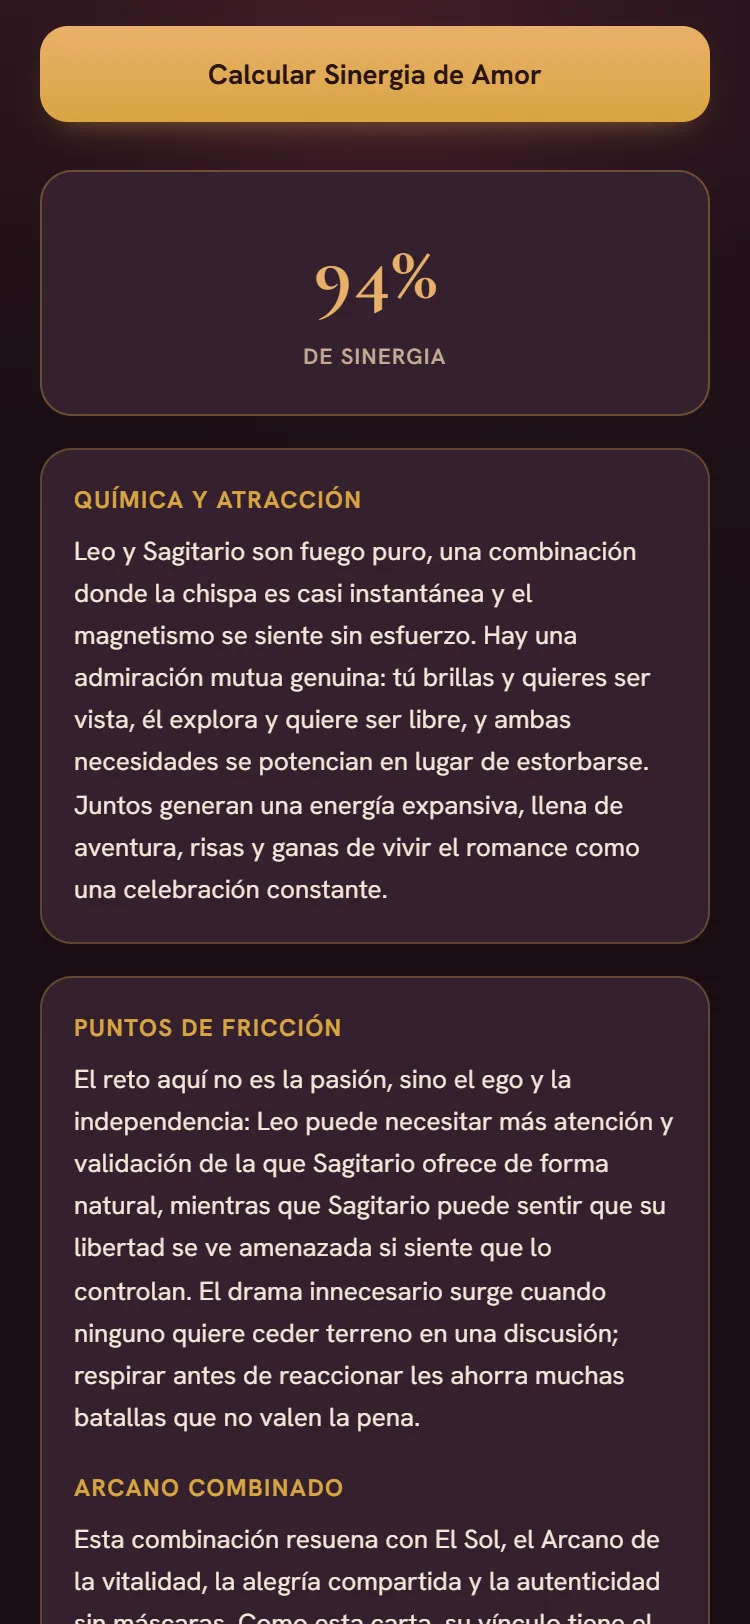
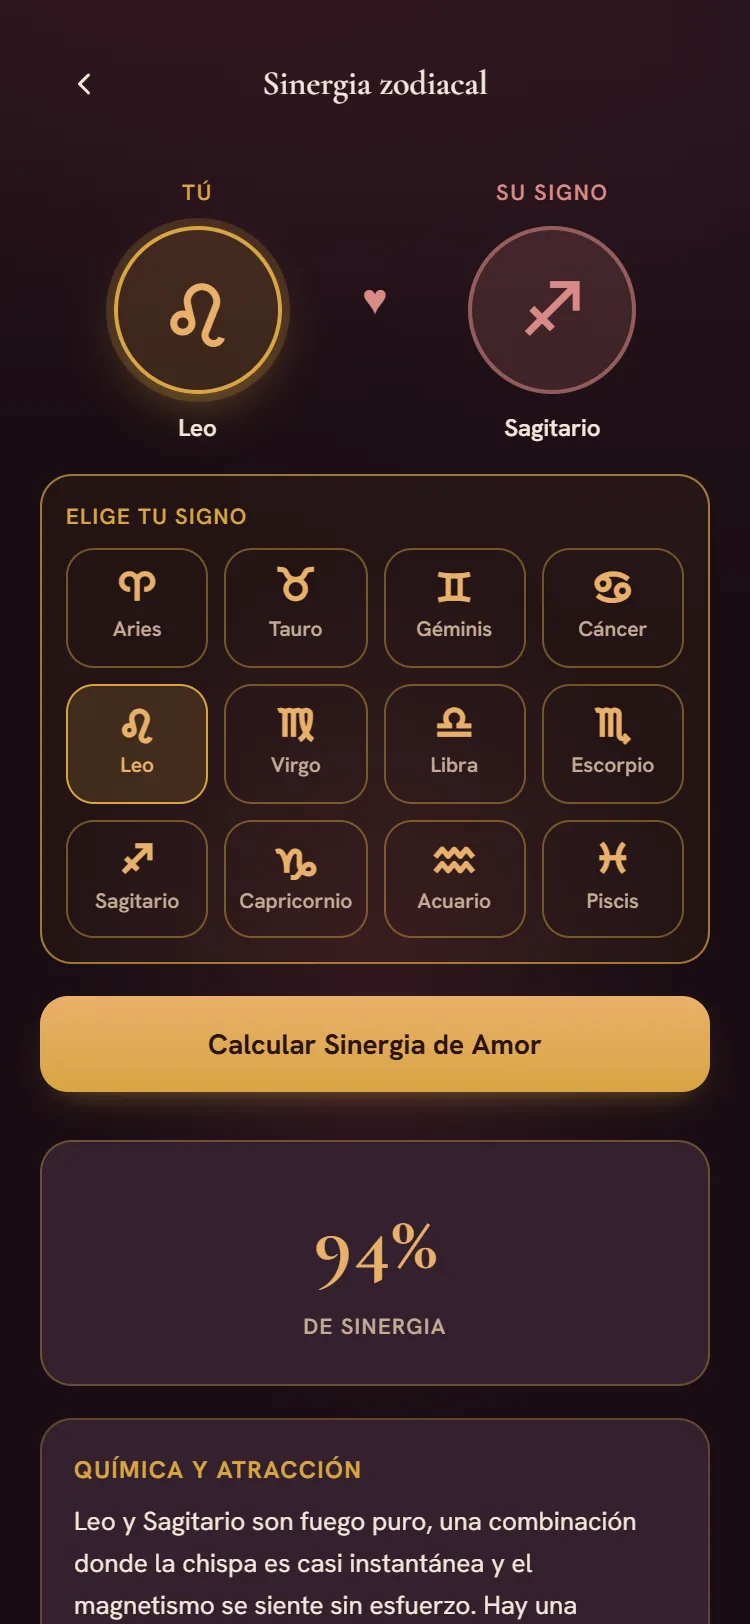
style(landing): la captura de sinergia del carrusel enseña la pantalla principal, con menos texto

diff --git a/scripts/capturas-carrusel/escenas.js b/scripts/capturas-carrusel/escenas.js
@@ -112,11 +112,8 @@ const ESCENAS = {
     await page.waitForTimeout(1200);
     await page.evaluate(() => [...document.querySelectorAll('button')].find((b) => /Calcular/.test(b.textContent)).click());
     await page.waitForTimeout(2500);
-    // El resultado queda arriba: porcentaje, química y fricción a la vista.
-    await page.evaluate(() => {
-      const el = [...document.querySelectorAll('p,span,div')].find((x) => /DE SINERGIA/i.test((x.textContent || '').trim()) && x.children.length === 0);
-      if (el) { const r = el.getBoundingClientRect(); window.scrollTo({ top: window.scrollY + r.top - 170, behavior: 'instant' }); }
-    });
+    // Pantalla principal de la sinergia: los dos signos arriba y el % asomando abajo (la gente no lee párrafos).
+    await page.evaluate(() => window.scrollTo({ top: 0, behavior: 'instant' }));
     await page.waitForTimeout(500);
   },
 

diff --git a/app/page.tsx b/app/page.tsx
@@ -170,7 +170,7 @@ export default function LandingLuma() {
             label: 'Una tirada leída para ti',
           },
           {
-            src: '/carrusel/compatibilidad.webp?v=3',
+            src: '/carrusel/compatibilidad.webp?v=4',
             label: 'Tu sinergia con él, en un vistazo',
           },
           {

diff --git a/ESTADO.md b/ESTADO.md
@@ -1133,3 +1133,4 @@ sabemos / qué observamos / posible riesgo / pregunta para ti / qué podrías re
 - 🔄 2026-10-19 — CARRUSEL DE LA LANDING RENOVADO (sin publicar): las 6 capturas de «Así se ve por dentro» eran de septiembre y no reflejaban la app (Tarot con emojis, sin «Qué responder», etc.). Rehechas con la app actual a 750x1624 (Inicio con saludo «Ana», Descifrar con los 4 bloques incl. «Qué responder», Coach, Tarot con lectura real de 3 cartas, Mapa de poder con El Hierofante, Diario con patrón), datos de ejemplo y respuestas de IA simuladas. `?v=3` para romper caché. Programa reutilizable en scripts/capturas-carrusel/ (LEEME.md). Lección: cada cambio visible de la app exige rehacer el carrusel.
 - 🔄 2026-10-19 — Carrusel: añadida la pantalla principal de Tarot («Eliges tu tirada») antes de la lectura (ahora 7 pantallas). Pedido de la dueña: el frame de Tarot solo enseñaba la lectura («Amor») y no la pantalla principal. Sin publicar.
 - 🔄 2026-10-19 — COMPATIBILIDAD (sin publicar): (1) BUG REAL: /app/compatibilidad mostraba «Puntos de fricción / Arcano combinado / Consejo» BORROSOS con «Desbloquea el reporte completo → Ver planes» a TODO el mundo, también a quien ya paga. Ahora usa usePruebaDisponible: con plan activo se ve completo; sin plan, % y Química gratis y el resto borroso + «Ver planes» (probado con y sin plan). (2) Carrusel: añadida la pantalla «Tu sinergia con él, en un vistazo» (Leo + Sagitario, texto REAL de la IA en scripts/capturas-carrusel/compat-leo-sagitario.json) tras Tarot → ahora 8 pantallas. Pendiente decisión de la dueña: poner Descifrar como primera pantalla del carrusel.
+- 🔄 2026-10-19 — Carrusel: la pantalla de sinergia ahora es la principal (signos Leo + Sagitario arriba, 94 % asomando) en lugar del informe largo; «la gente no lee tanto» (dueña). ?v=4. Sin publicar.
